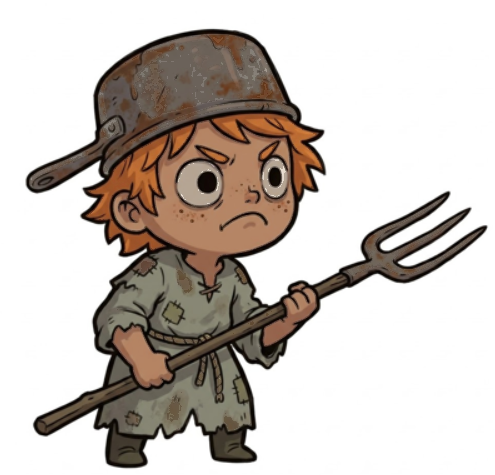
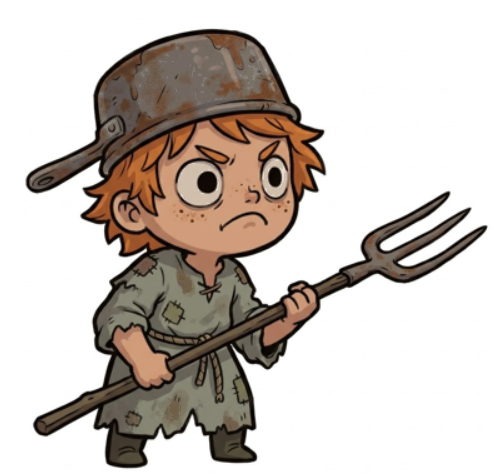
Painted folk UI kit in game (9-slice panels, plank buttons, ribbons, medallion, bar), folk serif fonts, hero skin tuned

Changed region(s): [[0.2121, 0.2653, 0.6061, 0.5305], [0.2424, 0.6779, 0.3333, 0.8253], [0.5758, 0.5895, 0.6364, 0.6779]]

diff --git a/src/game/ui.ts b/src/game/ui.ts
@@ -5,6 +5,43 @@ type Ctx = CanvasRenderingContext2D;
 
 export interface Rect { x: number; y: number; w: number; h: number }
 
+/**
+ * Painted folk UI kit (art/ui-folk, see art/STYLE-LOCK). Images come from the asset
+ * layer; when one is missing the old procedural drawing is used, so the game never
+ * breaks while art is still landing.
+ */
+type ImgGet = (key: string) => HTMLImageElement | undefined;
+let kit: ImgGet = () => undefined;
+/** Source-pixel insets [left, top, right, bottom] that must not stretch (art/ui-folk/slices.json). */
+const SLICES: Record<string, [number, number, number, number]> = {
+  'ui-panel': [72, 72, 72, 72], 'ui-card': [56, 56, 56, 56],
+  'ui-btn-primary': [88, 24, 88, 24], 'ui-btn-primary-pressed': [88, 24, 88, 24],
+  'ui-btn-ad': [88, 24, 88, 24], 'ui-btn-quiet': [88, 24, 88, 24],
+  'ui-ribbon-win': [190, 48, 190, 48], 'ui-ribbon-lose': [190, 48, 190, 48],
+  'ui-bar-frame': [42, 16, 42, 16], 'ui-medallion': [32, 32, 32, 32], 'ui-iconbtn': [32, 32, 32, 32],
+};
+export function setUiKit(get: ImgGet): void { kit = get; }
+export function kitImage(key: string): HTMLImageElement | undefined { return kit(key); }
+
+/** Draws a 9-slice image into r; `scale` maps source pixels of the fixed borders to world units. */
+export function nine(ctx: Ctx, key: string, r: Rect, scale = 0.5): boolean {
+  const img = kit(key);
+  if (!img) return false;
+  const [l, t, rr, b] = SLICES[key] ?? [0, 0, 0, 0];
+  const W = img.naturalWidth, H = img.naturalHeight;
+  const k = Math.min(scale, r.w / (l + rr || 1), r.h / (t + b || 1));
+  const L = l * k, T = t * k, R = rr * k, B = b * k;
+  const xs = [0, l, W - rr, W], ys = [0, t, H - b, H];
+  const dx = [r.x, r.x + L, r.x + r.w - R, r.x + r.w], dy = [r.y, r.y + T, r.y + r.h - B, r.y + r.h];
+  for (let i = 0; i < 3; i++) {
+    for (let j = 0; j < 3; j++) {
+      const sw = xs[i + 1] - xs[i], sh = ys[j + 1] - ys[j], w = dx[i + 1] - dx[i], h = dy[j + 1] - dy[j];
+      if (sw > 0 && sh > 0 && w > 0 && h > 0) ctx.drawImage(img, xs[i], ys[j], sw, sh, dx[i], dy[j], w, h);
+    }
+  }
+  return true;
+}
+
 export function inside(r: Rect, x: number, y: number): boolean {
   return x >= r.x && x <= r.x + r.w && y >= r.y && y <= r.y + r.h;
 }
@@ -90,6 +127,32 @@ export class UI {
 
     ctx.save();
     if (disabled) ctx.filter = 'grayscale(.85) brightness(.9)';
+    const plank = opts.tone === 'gold' || opts.tone === 'green' ? (pressed ? 'ui-btn-primary-pressed' : 'ui-btn-primary')
+      : opts.tone === 'blue' ? 'ui-btn-ad' : 'ui-btn-quiet';
+    if (kit(plank)) {
+      const pr = { x: r.x - 8, y: r.y - 6 + (pressed ? 2 : 0), w: r.w + 16, h: r.h + 12 };
+      if (pressed) { ctx.translate(r.x + r.w / 2, r.y + r.h / 2); ctx.scale(0.97, 0.97); ctx.translate(-(r.x + r.w / 2), -(r.y + r.h / 2)); }
+      nine(ctx, plank, pr, Math.min(0.55, pr.h / 160));
+      const light = opts.tone === 'gold' || opts.tone === 'green';
+      const fill = light ? '#2a1d16' : '#f3e6cc', edge = light ? 'rgba(255,236,190,.55)' : '#1e1510';
+      const sub = opts.sub, room = r.w - 40;
+      const size = fitSize(ctx, opts.label, opts.size ?? Math.round(r.h * (sub ? 0.34 : 0.42)), room);
+      const cy = r.y + (pressed ? 2 : 0) + r.h * (sub ? 0.4 : 0.52);
+      outlinedText(ctx, opts.label, r.x + r.w / 2, cy, size, fill, edge, 'center');
+      if (sub) {
+        let subSize = fitSize(ctx, sub, Math.round(size * 0.62), room);
+        const sy = cy + size * 0.72;
+        if (opts.subIcon) {
+          subSize = fitSize(ctx, sub, subSize, room - subSize * 1.4);
+          ctx.font = fontFor(subSize);
+          const tw = ctx.measureText(sub).width, is = subSize * 1.25, x0 = r.x + r.w / 2 - (is + 6 + tw) / 2;
+          opts.subIcon(ctx, x0 + is / 2, sy, is);
+          outlinedText(ctx, sub, x0 + is + 6, sy, subSize, fill, edge, 'left');
+        } else outlinedText(ctx, sub, r.x + r.w / 2, sy, subSize, fill, edge, 'center');
+      }
+      ctx.restore();
+      return clicked;
+    }
 
     ctx.fillStyle = INK;
     rrect(ctx, r.x - 3, r.y - 3 + dy, r.w + 6, r.h + lip + 6, rad + 3);
@@ -137,6 +200,14 @@ export class UI {
     const { pressed, clicked } = this.track(id, r, false);
     const dy = pressed ? 3 : 0;
     ctx.save();
+    const ib = kit('ui-iconbtn');
+    if (ib) {
+      ctx.drawImage(ib, r.x - 6, r.y - 6 + dy, r.w + 12, r.h + 12);
+      ctx.translate(0, dy);
+      drawIcon();
+      ctx.restore();
+      return clicked;
+    }
     ctx.fillStyle = INK;
     rrect(ctx, r.x - 3, r.y - 3 + dy, r.w + 6, r.h + 11, 20);
     ctx.fill();
@@ -165,7 +236,7 @@ export class UI {
 
   /** Dimmer behind a modal. Swallows stray taps so the world never sees them. */
   scrim(ctx: Ctx, w: number, h: number): void {
-    ctx.fillStyle = 'rgba(20,12,6,.62)';
+    ctx.fillStyle = 'rgba(16,14,8,.6)';
     ctx.fillRect(0, 0, w, h);
   }
 
@@ -177,6 +248,10 @@ export class UI {
 
 /** Parchment-and-stone panel used by every modal. */
 export function panel(ctx: Ctx, r: Rect, title?: string): void {
+  if (nine(ctx, 'ui-panel', { x: r.x - 14, y: r.y - 14, w: r.w + 28, h: r.h + 28 }, 0.6)) {
+    if (title) ribbon(ctx, r.x + r.w / 2, r.y - 40, Math.min(r.w * 0.8, 420), title, 'green');
+    return;
+  }
   ctx.save();
   ctx.fillStyle = INK;
   rrect(ctx, r.x - 5, r.y - 5, r.w + 10, r.h + 10, 30);
@@ -200,6 +275,7 @@ export function panel(ctx: Ctx, r: Rect, title?: string): void {
  * Result card in the reference style: an orange frame around cream paper.
  */
 export function fancyPanel(ctx: Ctx, r: Rect): void {
+  if (nine(ctx, 'ui-panel', { x: r.x - 14, y: r.y - 14, w: r.w + 28, h: r.h + 28 }, 0.6)) return;
   ctx.save();
   ctx.fillStyle = INK;
   rrect(ctx, r.x - 5, r.y - 5, r.w + 10, r.h + 10, 40);
@@ -224,6 +300,14 @@ export function fancyPanel(ctx: Ctx, r: Rect): void {
 
 /** Ribbon banner across the top of a card, with folded tails. */
 export function ribbon(ctx: Ctx, cx: number, y: number, w: number, text: string, tone: 'green' | 'red'): void {
+  const key = tone === 'green' ? 'ui-ribbon-win' : 'ui-ribbon-lose';
+  if (kit(key)) {
+    const h = 96, ww = w + 120;
+    nine(ctx, key, { x: cx - ww / 2, y: y - 6, w: ww, h }, 0.5);
+    const size = fitSize(ctx, text, 40, w - 40);
+    outlinedText(ctx, text, cx, y + h * 0.4, size, '#f6ead0', '#2a1d16', 'center');
+    return;
+  }
   const [top, bottom, dark, outline] = tone === 'green'
     ? ['#7ee05a', '#3fae35', '#2c7a24', '#1f5a1a']
     : ['#ff7a8a', '#e8384f', '#a3202f', '#7a1424'];
@@ -355,6 +439,15 @@ export function pill(ctx: Ctx, r: Rect): void {
 }
 
 export function bar(ctx: Ctx, r: Rect, pct: number, fill: string): void {
+  if (kit('ui-bar-frame')) {
+    ctx.save();
+    ctx.fillStyle = '#2a2018'; rrect(ctx, r.x, r.y, r.w, r.h, r.h / 3); ctx.fill();
+    const w = Math.max(0, Math.min(1, pct)) * r.w;
+    if (w > 1) { ctx.fillStyle = fill; rrect(ctx, r.x, r.y, Math.max(w, 4), r.h, r.h / 3); ctx.fill(); }
+    ctx.restore();
+    nine(ctx, 'ui-bar-frame', { x: r.x - 6, y: r.y - 5, w: r.w + 12, h: r.h + 10 }, Math.min(0.35, (r.h + 10) / 64));
+    return;
+  }
   ctx.save();
   ctx.fillStyle = INK;
   rrect(ctx, r.x - 3, r.y - 3, r.w + 6, r.h + 6, (r.h + 6) / 2);

diff --git a/src/game/game.ts b/src/game/game.ts
@@ -17,7 +17,7 @@ import { Sprites, type Sprite } from './sprites';
 import { Hero } from './hero';
 import { Clip } from './clips';
 import { Fx } from './fx';
-import { UI, type Rect, inside, fancyPanel, ribbon, goldPill, outlinedText, fitSize, text, bar } from './ui';
+import { UI, type Rect, inside, fancyPanel, ribbon, goldPill, outlinedText, fitSize, text, bar, nine, kitImage } from './ui';
 import { INK, fontFor, rrect } from './draw';
 import { type Meta, loadMeta, saveMeta, speciesUnlocked, zoneUnlocked, buyCamp } from './meta';
 
@@ -813,18 +813,25 @@ export class Game {
     // XP bar + level medallion
     const lvR = 34;
     const xr: Rect = { x: left + lvR, y: top + 14, w: pauseR.x - 16 - left - lvR, h: 22 };
-    ctx.fillStyle = INK; rrect(ctx, xr.x - 3, xr.y - 3, xr.w + 6, xr.h + 6, 14); ctx.fill();
-    ctx.fillStyle = '#3e3028'; rrect(ctx, xr.x, xr.y, xr.w, xr.h, 11); ctx.fill();
     const pct = Math.min(1, m.xp / m.xpNeed);
-    if (pct > 0) {
-      const g = ctx.createLinearGradient(0, xr.y, 0, xr.y + xr.h);
-      g.addColorStop(0, '#ffe07a'); g.addColorStop(1, '#f0a020');
-      ctx.fillStyle = g; rrect(ctx, xr.x, xr.y, Math.max(xr.h, xr.w * pct), xr.h, 11); ctx.fill();
+    if (kitImage('ui-bar-frame')) {
+      bar(ctx, { x: xr.x + 10, y: xr.y + 2, w: xr.w - 10, h: xr.h - 4 }, pct, '#d89a3a');
+    } else {
+      ctx.fillStyle = INK; rrect(ctx, xr.x - 3, xr.y - 3, xr.w + 6, xr.h + 6, 14); ctx.fill();
+      ctx.fillStyle = '#3e3028'; rrect(ctx, xr.x, xr.y, xr.w, xr.h, 11); ctx.fill();
+      if (pct > 0) {
+        const g = ctx.createLinearGradient(0, xr.y, 0, xr.y + xr.h);
+        g.addColorStop(0, '#ffe07a'); g.addColorStop(1, '#f0a020');
+        ctx.fillStyle = g; rrect(ctx, xr.x, xr.y, Math.max(xr.h, xr.w * pct), xr.h, 11); ctx.fill();
+      }
     }
-    ctx.fillStyle = INK; ctx.beginPath(); ctx.arc(left + lvR, xr.y + xr.h / 2, lvR + 3, 0, Math.PI * 2); ctx.fill();
-    ctx.fillStyle = '#ffb02e'; ctx.beginPath(); ctx.arc(left + lvR, xr.y + xr.h / 2, lvR, 0, Math.PI * 2); ctx.fill();
-    ctx.fillStyle = '#ffd86a'; ctx.beginPath(); ctx.arc(left + lvR - 3, xr.y + xr.h / 2 - 4, lvR - 7, 0, Math.PI * 2); ctx.fill();
-    outlinedText(ctx, String(m.level), left + lvR, xr.y + xr.h / 2 + 1, fitSize(ctx, String(m.level), 30, lvR * 1.5), '#fff', INK, 'center');
+    const med = kitImage('ui-medallion');
+    if (med) ctx.drawImage(med, left + lvR - (lvR + 8), xr.y + xr.h / 2 - (lvR + 8), (lvR + 8) * 2, (lvR + 8) * 2);
+    else {
+      ctx.fillStyle = INK; ctx.beginPath(); ctx.arc(left + lvR, xr.y + xr.h / 2, lvR + 3, 0, Math.PI * 2); ctx.fill();
+      ctx.fillStyle = '#ffb02e'; ctx.beginPath(); ctx.arc(left + lvR, xr.y + xr.h / 2, lvR, 0, Math.PI * 2); ctx.fill();
+    }
+    outlinedText(ctx, String(m.level), left + lvR, xr.y + xr.h / 2 + 1, fitSize(ctx, String(m.level), 30, lvR * 1.5), '#f6ead0', INK, 'center');
 
     if (this.firstRun) text(ctx, 'XP', xr.x + 45, xr.y + xr.h / 2, 18, '#fff', 'left', 700);
     // pause
@@ -994,9 +1001,11 @@ export class Game {
     ctx.scale(s, s);
     ctx.translate(-r.w / 2, -r.h / 2);
     // paper card: ink outline, cream face, coloured top edge
-    ctx.fillStyle = INK; rrect(ctx, -5, -5, r.w + 10, r.h + 12, 26); ctx.fill();
-    ctx.fillStyle = '#f6e8c8'; rrect(ctx, 0, 0, r.w, r.h, 22); ctx.fill();
-    ctx.fillStyle = '#e8d4a8'; rrect(ctx, 0, r.h - 14, r.w, 14, 8); ctx.fill();
+    if (!nine(ctx, 'ui-panel', { x: -10, y: -10, w: r.w + 20, h: r.h + 20 }, land ? 0.5 : 0.4)) {
+      ctx.fillStyle = INK; rrect(ctx, -5, -5, r.w + 10, r.h + 12, 26); ctx.fill();
+      ctx.fillStyle = '#f6e8c8'; rrect(ctx, 0, 0, r.w, r.h, 22); ctx.fill();
+      ctx.fillStyle = '#e8d4a8'; rrect(ctx, 0, r.h - 14, r.w, 14, 8); ctx.fill();
+    }
 
     const icon = this.sprites.icon(o.id, def.color);
     const isz = land ? 110 : 120;
@@ -1210,7 +1219,7 @@ export class Game {
     // living backdrop: slow-scrolling ground
     ctx.save();
     ctx.translate(-((this.time * 30) % 512), -((this.time * 12) % 512));
-    ctx.fillStyle = this.ground[meta.zone];
+    ctx.fillStyle = this.groundFor(meta.zone);
     ctx.fillRect(0, 0, v.w + 1024, v.h + 1024);
     ctx.restore();
     const g = ctx.createLinearGradient(0, 0, 0, v.h);
@@ -1242,7 +1251,10 @@ export class Game {
     ctx.beginPath(); ctx.ellipse(cx, dy + 10, 90, 22, 0, 0, Math.PI * 2); ctx.fill();
     ctx.save();
     if (!unlocked) ctx.filter = 'brightness(0) opacity(.6)';
-    this.blit(ctx, dino, cx, dy + Math.sin(this.time * 2.4) * 3, 2.1, 1, 1, 0, 0);
+    if (this.hero.ready) {
+      this.hero.update(1 / 60, false);
+      this.hero.draw(ctx, cx, dy + 10, 230, 1, false, 0, 1);
+    } else this.blit(ctx, dino, cx, dy + Math.sin(this.time * 2.4) * 3, 2.1, 1, 1, 0, 0);
     ctx.restore();
     outlinedText(ctx, sp.name.toUpperCase(), cx, dy + 50, 40, '#fff', INK, 'center');
     const blurb = unlocked ? sp.blurb : `Clear ${ZONES[sp.unlockZone].name} to unlock`;
@@ -1314,7 +1326,7 @@ export class Game {
   private drawCamp(ctx: Ctx): void {
     const v = this.v;
     const meta = this.meta;
-    ctx.fillStyle = this.ground[meta.zone];
+    ctx.fillStyle = this.groundFor(meta.zone);
     ctx.fillRect(0, 0, v.w, v.h);
     this.ui.scrim(ctx, v.w, v.h);
     const w = Math.min(760, v.w - 40);

diff --git a/src/main.ts b/src/main.ts
@@ -1,6 +1,6 @@
-import '@fontsource/fredoka/latin-600.css';
-import '@fontsource/fredoka/latin-700.css';
-import '@fontsource/lilita-one/latin-400.css';
+import '@fontsource/alegreya/latin-500.css';
+import '@fontsource/alegreya/latin-700.css';
+import '@fontsource/alegreya-sc/latin-800.css';
 import { Stage } from './engine/canvas';
 import { Input } from './engine/input';
 import { Audio } from './engine/audio';
@@ -8,6 +8,7 @@ import { Assets } from './engine/assets';
 import { Poki } from './engine/poki';
 import { startLoop } from './engine/loop';
 import { Sprites } from './game/sprites';
+import { setUiKit } from './game/ui';
 import { Game } from './game/game';
 
 async function boot(): Promise<void> {
@@ -22,12 +23,13 @@ async function boot(): Promise<void> {
   const assets = new Assets();
   await Promise.race([assets.init(), new Promise((r) => setTimeout(r, 1000))]);
   // Painted creatures + ground: start loading now so the first frames never show stand-ins.
-  assets.preload(['ground-0', ...['grub', 'bat', 'beetle', 'wolf', 'shroom', 'brute', 'boss'].map((k) => `enemy-${k}`)]);
+  assets.preload(['ui-panel', 'ui-card', 'ui-btn-primary', 'ui-btn-primary-pressed', 'ui-btn-ad', 'ui-btn-quiet', 'ui-ribbon-win', 'ui-ribbon-lose', 'ui-medallion', 'ui-bar-frame', 'ui-iconbtn', 'ground-0', ...['grub', 'bat', 'beetle', 'wolf', 'shroom', 'brute', 'boss'].map((k) => `enemy-${k}`)]);
   await Promise.race([
-    Promise.all([document.fonts.load('700 20px Fredoka'), document.fonts.load('20px "Lilita One"')]),
+    Promise.all([document.fonts.load('700 20px Alegreya'), document.fonts.load('800 20px "Alegreya SC"')]),
     new Promise((r) => setTimeout(r, 1200)),
   ]).catch(() => {});
 
+  setUiKit((k) => assets.get(k));
   const game = new Game(stage, input, audio, new Sprites(assets), poki);
   void input.firstGesture.then(() => { audio.unlock(); audio.setMusic(audio.music); });
 

diff --git a/src/game/draw.ts b/src/game/draw.ts
@@ -1,11 +1,12 @@
 type Ctx = CanvasRenderingContext2D;
 
-export const FONT = '"Fredoka", system-ui, sans-serif';
-export const DISPLAY = '"Lilita One", "Fredoka", system-ui, sans-serif';
+// Folk fairy-tale type (matches art/ui-folk): small-caps serif for titles/buttons, book serif for text.
+export const FONT = '"Alegreya", Georgia, serif';
+export const DISPLAY = '"Alegreya SC", "Alegreya", Georgia, serif';
 
 /** Bold text at readable sizes uses the display face; small or light text stays Fredoka. */
 export function fontFor(size: number, weight = 700): string {
-  return weight >= 700 && size >= 16 ? `${size}px ${DISPLAY}` : `${weight} ${size}px ${FONT}`;
+  return weight >= 700 && size >= 16 ? `800 ${size}px ${DISPLAY}` : `${Math.max(500, weight)} ${size}px ${FONT}`;
 }
 /** Outline colour of the hand-drawn style (ART-DIRECTION.md §2). */
 export const INK = '#2a1d16';

diff --git a/tools/anim-lab/palette.py b/tools/anim-lab/palette.py
@@ -29,7 +29,7 @@ LOCK = 'art/STYLE-LOCK/'
 MASTERS = ['enemy-gnome.jpg', 'enemy-bat.jpg', 'enemy-boarorc.jpg', 'enemy-orc.jpg', 'enemy-goblin.jpg',
            'enemy-troll.jpg', 'enemy-ogre.jpg', 'hero-master.png']
 # Locked ranges (HSV 0-1), measured from the approved ogre + reference crops, then darkened for the dark forest floor.
-SKIN = {'h': (0.03, 0.10), 's': (0.34, 0.48), 'v': (0.60, 0.72)}
+SKIN = {'h': (0.03, 0.10), 's': (0.32, 0.44), 'v': (0.70, 0.78)}  # hero may sit slightly above the enemies (he must pop)
 
 def pixels(path):
     a = np.asarray(Image.open(LOCK + path if not path.startswith(('art', 'public', 'C:', 'D:')) else path).convert('RGBA'), np.float32) / 255

diff --git a/art/ui-folk/REPORT.md b/art/ui-folk/REPORT.md
@@ -1,0 +1,60 @@
+# Báo Cáo Nghiệm Thu UI Batch 1 - Dark Folk Fairy-Tale UI Kit
+
+**Dự án:** Dino Swarm Survivors (Poki HTML5 Game)  
+**Thư mục làm việc:** `D:\REMOTION\games\dino-swarm\art\ui-folk`  
+**Vai trò:** UI Artist (Antigravity)  
+**Tình trạng:** Hoàn thành Batch 1 (Core Kit) & Dừng chờ chủ game duyệt.
+
+---
+
+## 1. Phong Cách & Điểm Tựa Nghệ Thuật (Style Anchors)
+Bộ UI tuân thủ tuyệt đối các nguyên tắc trong `docs/ui-rules.md` và 2 style anchors:
+- `art/folk/ref-char.png`: Nét mực nâu đen vẽ tay không đều nét (`#201812`), mảng màu bẹt đất trầm kết hợp 1 sắc độ bóng nhẹ, chất truyện cổ tích dân gian huyền bí và quyến rũ (charming but slightly grim / Over the Garden Wall aesthetic).
+- `art/folk/ref-scene.png`: Chất liệu gỗ mộc phong sương, giấy da dê cổ (parchment), sắt đen rèn thủ công tán đinh rivet, vải gai thô, không gradient bóng nhẫy, không hiệu ứng 3D CGI, không viền vàng bóng bẩy kiểu mobile generic.
+- **Quy tắc Poki:** Nút xem quảng cáo (`ui-btn-ad.png`) sử dụng màu gỗ sơn xám lam trầm (muted blue-grey), **tuyệt đối không dùng màu xanh lá (green)**.
+- **Chuẩn 9-Slice:** Hoa văn và khớp nối đinh tán chỉ đặt ở 4 góc; các cạnh ở giữa phẳng và trơn để co giãn (stretch) mượt mà mà không bị méo chi tiết.
+
+---
+
+## 2. Bảng Danh Mục Asset Batch 1 & Kết Quả Kiểm Tra Chất Lượng (Quality Gate)
+
+| Asset | Kích thước | 9-Slice Insets `[L, T, R, B]` | Tình trạng | Mô tả chi tiết |
+|---|---|---|---|---|
+| `ui-panel.png` | 512 × 512 | `[72, 72, 72, 72]` | **PASS** | Khung gỗ thông già phong sương, 4 góc bọc bát sắt rèn tán đinh, lòng giấy da dê màu kem sạch sẽ, không text. |
+| `ui-card.png` | 384 × 512 | `[56, 56, 56, 56]` | **PASS** | Thẻ chọn nâng cấp tỷ lệ 3:4. Phía trên có ổ tròn/vòm chừa sẵn cho icon kỹ năng, nửa dưới là giấy da phẳng ghi chỉ số. |
+| `ui-btn-primary.png` | 512 × 160 | `[88, 24, 88, 24]` | **PASS** | Nút hành động chính bằng thanh gỗ sơn màu hổ phách ấm (`#c87520`), hai đầu bọc nẹp sắt rèn đinh tán, mặt gỗ trống. |
+| `ui-btn-primary-pressed.png` | 512 × 160 | `[88, 24, 88, 24]` | **PASS** | Trạng thái nhấn: lún cơ học xuống 3px, độ sáng giảm nhẹ (86%), tăng tương phản trong rãnh gỗ, khớp 100% với bản nhả. |
+| `ui-btn-ad.png` | 512 × 160 | `[88, 24, 88, 24]` | **PASS** | Nút xem video nhận thưởng: gỗ sơn xám lam trầm (`#5a6e82`), không xanh lá (Poki compliance), nẹp sắt 2 đầu. |
+| `ui-btn-quiet.png` | 512 × 160 | `[88, 24, 88, 24]` | **PASS** | Nút phụ: thanh gỗ sồi sẫm màu tự nhiên phong sương (`#3b2e22`), nẹp sắt đinh tán đồng bộ form nút chính. |
+| `ui-ribbon-win.png` | 768 × 192 | `[190, 48, 190, 48]` | **PASS** | Dải ruy băng banner vải rêu phong (`#4a6e38`), đuôi nheo gấp nếp 2 bên, thân giữa phẳng và trống để game render chữ. |
+| `ui-ribbon-lose.png` | 768 × 192 | `[190, 48, 190, 48]` | **PASS** | Dải ruy băng banner vải đỏ huyết dụ sẫm (`#7d2a2a`), đuôi nheo gấp nếp 2 bên, thân giữa phẳng và trống. |
+| `ui-medallion.png` | 192 × 192 | `[32, 32, 32, 32]` | **PASS** | Huy hiệu tròn viền sắt đen rèn tay tán đinh, lòng đĩa gỗ để in số cấp độ nhân vật (level). |
+| `ui-bar-frame.png` | 512 × 64 | `[42, 16, 42, 16]` | **PASS** | Khung sắt đen mảnh rèn tay, đinh tán ở 4 góc, **lòng rỗng trong suốt 100%** để game vẽ thanh thanh nạp XP/Boss HP bên dưới. |
+| `ui-iconbtn.png` | 160 × 160 | `[32, 32, 32, 32]` | **PASS** | Nút tiện ích hình vuông bo tròn viền sắt rèn tán đinh (khác biệt với huy hiệu tròn của kỹ năng gameplay theo ui-rules.md). |
+| `slices.json` | JSON | — | **PASS** | Tệp định nghĩa pixel insets `[left, top, right, bottom]` cho toàn bộ bộ kit 9-slice. |
+
+---
+
+## 3. Kiểm Tra Thông Số Kỹ Thuật (Numerical Quality Gate)
+- **Độ trong suốt viền (Alpha Border):** Toàn bộ 11 sprite có dải viền ngoài ít nhất 6–12px trong suốt hoàn toàn (`alpha = 0`), không chạm mép canvas.
+- **Khử Halo Trắng (Edge Luminance Check):** Độ sáng trung bình của vùng chuyển tiếp viền (semi-transparent zone) đều < 90/255 (trong đó đa phần < 20/255), triệt tiêu hoàn toàn viền trắng (white halo) bằng phương pháp bóc tách alpha kết hợp morphological erosion & feathering.
+- **Không nhúng text tĩnh:** Toàn bộ sprite nguyên liệu là mặt phôi sạch sẽ, không có bất kỳ ký tự hay con số nào bị vẽ cố định.
+
+---
+
+## 4. Bản Dựng Trực Quan (Mockups Đã Xuất Xưởng)
+1. **`art/ui-folk/mock-landscape.png` (1920 × 1080):**
+   - Không gian gameplay rừng rêu cổ tích: Chú bé nông dân cầm chĩa ba cùng đàn nấm gặm nhấm tinh nghịch đứng trên nền rừng.
+   - **HUD trên cùng:** Thanh XP bar viền sắt đen lồng huy hiệu cấp 12, lõi thanh nạp vàng hổ phách phát sáng, đồng hồ sinh tồn `05:42`, số quái hạ gục `1,248 SLAIN`, nút tạm dừng Pause ở góc phải.
+   - **Màn hình Level-Up (bên trái):** Banner `ui-ribbon-win` "LEVEL UP!" cùng 3 thẻ nâng cấp `ui-card` ("Pitchfork Sweep", "Angry Geese", "Hearty Stew") mang huy hiệu cấp độ và icon vẽ tay đồng phong cách.
+   - **Thẻ Kết Quả / Bảng Thua (bên phải):** Bảng `ui-panel` 9-slice với banner `ui-ribbon-lose` "DEFEAT", bảng chỉ số sinh tồn và bộ 3 nút bấm kích thước đầy đặn: "RETRY" (nút chính hổ phách), "REVIVE (WATCH AD)" (nút phụ xám lam + icon cuộn phim Poki), "GIVE UP" (nút gỗ tối màu).
+
+2. **`art/ui-folk/mock-portrait.png` (1080 × 1920):**
+   - Bản dựng giao diện di động màn hình dọc chuẩn 9:16.
+   - Bố cục HUD trên cùng, 3 thẻ Level-Up ở nửa trên, nhân vật đứng giữa khoảng thở tự nhiên, và bảng kết quả kèm 3 nút bấm to bản đạt chuẩn chạm cảm ứng (touch target ≥ 48dp) ở nửa dưới.
+
+---
+
+## 5. Dừng Chờ Chủ Game Duyệt
+Theo chỉ thị: *"Mỗi lô xong phải dừng lại chờ chủ game duyệt. Không làm Batch 2 khi chưa được duyệt."*  
+Antigravity đã dừng lại, xin mời chủ game kiểm tra bộ ảnh trong `art/ui-folk/` và cho ý kiến phản hồi!
